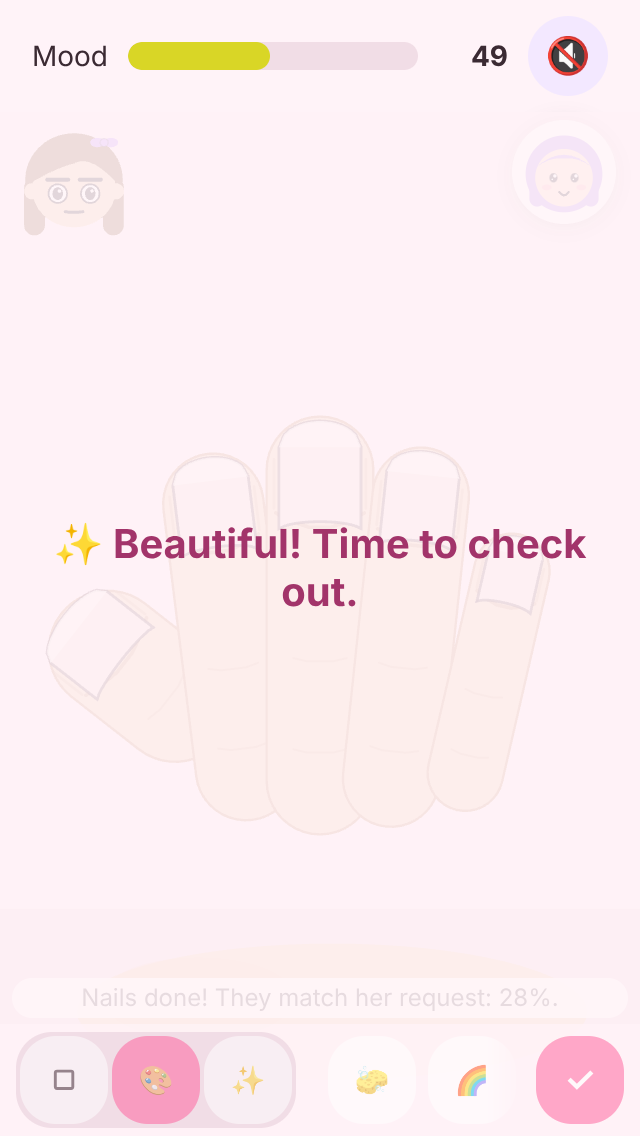
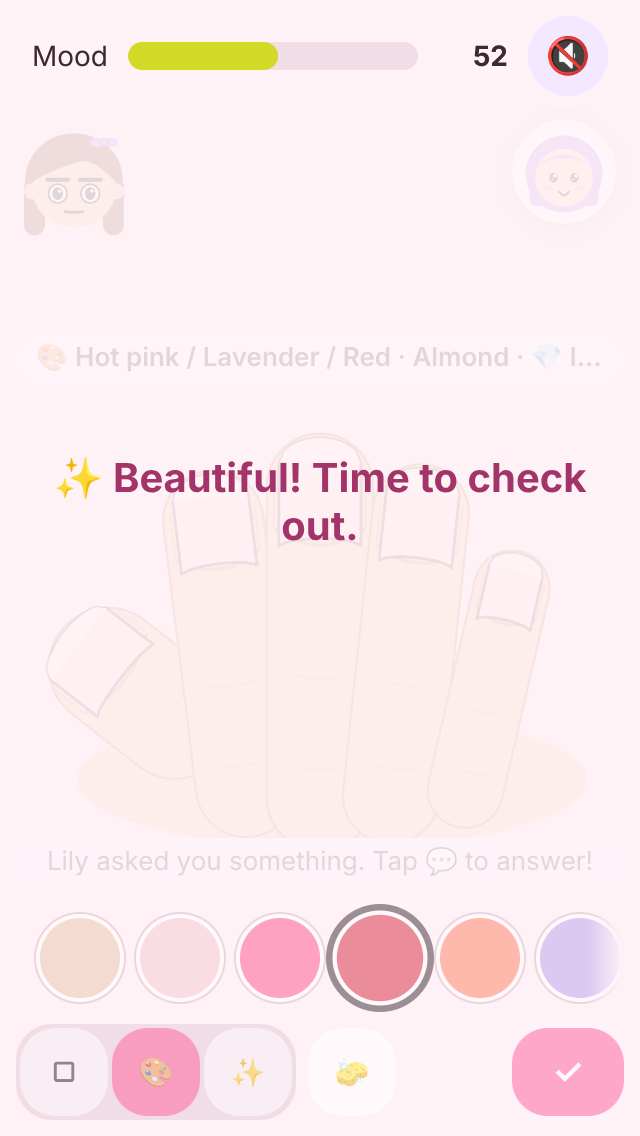
035 fixes: colours in plain sight, no overlaps, clean checkout, result-aware checkout line
Overseer review of b7332ae (from the 320 px evidence):
1. Colours were hidden. The toolbar is now two rows. Row 1 is the selected tab's options at full width: six
   colours in view at 320 px with the seventh cut off at the edge, and the chosen one has a dark ring. Row 2 is
   the tabs, Clean up (now always at hand), the hand switch and Done.
2. The "💬 Reply" chip no longer covers the hint: it sits with her bubble beside her face. The 20 s nudge takes
   the hint line's place while it shows.
3. Checkout shows only the finished nails above the chat: no tools, no toggle, no match pill on the hand.
4. Her checkout line fits the result. service-talk.json has happy / okay / unhappy bands with thresholds on nail
   match and mood, 3 lines each. A 28% match at mood 49 now gets a polite "Hmm, okay. How much is it?" kind of
   line, never "I love them!".
5. The pedicure prep starts below her face and the companion.
6. Order reminder: nothing like it existed, so there is now a chip under her bubble for the whole service
   ("🎨 colours · shapes · extras", from the request data, in the interface language). A long order is cut with
   an ellipsis on a 320 px screen.
Also found by the e2e test: "Are you almost done? I have to pick up my kids soon." did not count as a question
(it ends with a full stop), so ignoring it cost nothing. A line with a "?" anywhere now waits for an answer.

Tests: npm test → Test Files 35 passed (35), Tests 372 passed (372).
[…]

diff --git a/src/game/ui/chat-panel.ts b/src/game/ui/chat-panel.ts
@@ -8,13 +8,14 @@ import type { Expression } from '../portraits/portrait';
 import { PHASES, TurnError } from '../types';
 import type { AppointmentResult, ClientPersona, EnglishLevel, HelpLanguage, Translate } from '../types';
 import type { TranslationCache } from '../translation-cache';
-import { t } from '../i18n';
+import { getLanguage, t } from '../i18n';
 import { el } from './dom';
 import { createMaiBubble } from './mai-bubble';
 import { createPrepOverlay } from './pedicure-prep';
 import { SERVICE_TALK, checkoutLine, expectsAnswer, planServiceTalk } from '../service-talk';
 import type { PrepOverlay } from './pedicure-prep';
 import { createNailStation, nailsNote } from './nail-station-panel';
+import { NAIL_ART_CONFIG } from '../nail-art/design';
 import type { NailDesign, NailRequest, PaletteColor, StickerKind } from '../nail-art/design';
 import type { StationTools } from '../nail-art/station';
 import type { MatchResult } from '../nail-art/match';
@@ -197,6 +198,7 @@ export function createChatPanel(
           appointment.adjustMood(result.moodDelta);
           nailArt.onNote(nailsNote(design, result, nailArt.request.service));
           nailArt.onDone(design, result);
+          lastMatch = result.score;
           // Story 035: Done ends the service (or, in a redo scenario, the client asks for her redo first).
           afterDone();
         },
@@ -307,13 +309,28 @@ export function createChatPanel(
   sheetClose.setAttribute('aria-label', t('service.backToNails'));
   sheetHead.append(el('strong', '', t('service.replyTitle', { name: clientName })), sheetClose);
   sheet.append(sheetHead);
-  if (station) zone.element.append(say, chip, nudge, doneBanner);
+  // 035 fixes: her bubble and the Reply chip sit together beside her face (nothing covers the hint line), and a small
+  // order reminder stays under them the whole service.
+  const talk = el('div', 'service-talk');
+  talk.append(say, chip);
+  const order = el('p', 'service-order');
+  if (nailArt) {
+    const lang = getLanguage();
+    const r = nailArt.request;
+    const colours = r.colors.map((id) => NAIL_ART_CONFIG.palette.find((c) => c.id === id)?.name[lang] ?? id).join(' / ');
+    const shapes = r.shapes.map((shape) => t(`station.shape.${shape}`)).join(' / ');
+    const extras = [r.gradient === 'yes' ? '🌈' : '', r.gems !== 'none' ? `💎 ${t(`service.order.${r.gems}`)}` : '', r.stickers !== 'none' ? `⭐ ${t(`service.order.${r.stickers}`)}` : ''].filter(Boolean);
+    order.textContent = [`🎨 ${colours}`, shapes, ...extras].join(' · ');
+    order.setAttribute('aria-label', `${t('service.order.label')}: ${order.textContent}`);
+  }
+  if (station) zone.element.append(talk, order, nudge, doneBanner);
   let serviceMode = false;
   let serviceStarted = false;
   let replyOpen = false;
   let ending = false;
   let lastSeenClient = -1;
   let awaitingAnswer = false;
+  let lastMatch = 0;
   let ignoreTimer = 0;
   let nudgeTimer = 0;
   const talkTimers: number[] = [];
@@ -344,8 +361,13 @@ export function createChatPanel(
   const showNudge = (text: string): void => {
     nudge.textContent = text;
     nudge.classList.remove('hidden');
+    // The nudge takes the hint line's place while it shows (they never overlap).
+    root.classList.add('nudging');
     window.clearTimeout(nudgeTimer);
-    nudgeTimer = window.setTimeout(() => nudge.classList.add('hidden'), 4500);
+    nudgeTimer = window.setTimeout(() => {
+      nudge.classList.add('hidden');
+      root.classList.remove('nudging');
+    }, 4500);
   };
   /** A client line while the station is on screen: a bubble from her face, the Reply chip, and a wait for questions. */
   const clientLineInService = (index: number, text: string): void => {
@@ -403,8 +425,10 @@ export function createChatPanel(
     window.setTimeout(() => {
       doneBanner.classList.add('hidden');
       appointment.holdPhase(null);
+      // The job is finished: no tools at checkout, just the finished nails.
+      root.classList.add('service-over');
       appointment.advance('checkout');
-      appointment.clientSays(checkoutLine());
+      appointment.clientSays(checkoutLine(lastMatch, latest.mood));
       ending = false;
     }, 1600);
   }

diff --git a/src/game/service-talk.ts b/src/game/service-talk.ts
@@ -13,8 +13,14 @@ export interface ServiceTalkConfig {
   ignoreSeconds: number;
   ignoreMoodDip: number;
   lines: Record<Difficulty, string[]>;
-  checkout: string[];
+  checkout: { happy: CheckoutBand; okay: CheckoutBand; unhappy: { lines: string[] } };
   redo: string;
+}
+
+export interface CheckoutBand {
+  minMatch: number;
+  minMood: number;
+  lines: string[];
 }
 
 export function parseServiceTalk(raw: unknown): ServiceTalkConfig {
@@ -36,7 +42,18 @@ export function parseServiceTalk(raw: unknown): ServiceTalkConfig {
     ignoreSeconds: positive(c.ignoreSeconds, 'ignoreSeconds'),
     ignoreMoodDip: typeof c.ignoreMoodDip === 'number' && c.ignoreMoodDip <= 0 ? c.ignoreMoodDip : fail('"ignoreMoodDip" must be 0 or less'),
     lines,
-    checkout: texts(c.checkout, 'checkout'),
+    checkout: (() => {
+      const k = (c.checkout ?? {}) as Record<string, Partial<CheckoutBand>>;
+      const band = (name: 'happy' | 'okay'): CheckoutBand => {
+        const b = k[name];
+        if (typeof b?.minMatch !== 'number' || typeof b?.minMood !== 'number') return fail(`"checkout.${name}" needs minMatch and minMood`);
+        return { minMatch: b.minMatch, minMood: b.minMood, lines: texts(b.lines, `checkout.${name}.lines`) };
+      };
+      const happy = band('happy');
+      const okay = band('okay');
+      if (okay.minMatch > happy.minMatch || okay.minMood > happy.minMood) fail('"checkout.okay" thresholds must not be above happy');
+      return { happy, okay, unhappy: { lines: texts(k.unhappy?.lines, 'checkout.unhappy.lines') } };
+    })(),
     redo: typeof c.redo === 'string' && c.redo.trim() ? c.redo : fail('"redo" needs a line'),
   };
 }
@@ -63,7 +80,21 @@ export function planServiceTalk(difficulty: Difficulty, rand: () => number = Mat
   return plan;
 }
 
-/** Only a question waits for an answer (thanks and remarks don't). */
-export const expectsAnswer = (line: string): boolean => /\?\s*["”']?\s*$/.test(line.trim());
+/** Only a line with a question in it waits for an answer ("Are you almost done? I have to go soon." counts). */
+export const expectsAnswer = (line: string): boolean => line.includes('?');
 
-export const checkoutLine = (rand: () => number = Math.random, config: ServiceTalkConfig = SERVICE_TALK): string => config.checkout[Math.floor(rand() * config.checkout.length)] as string;
+export type CheckoutMood = 'happy' | 'okay' | 'unhappy';
+
+/** Which checkout band the result earns: nail match (0-100) and mood must both reach the band's thresholds. */
+export function checkoutBand(match: number, mood: number, config: ServiceTalkConfig = SERVICE_TALK): CheckoutMood {
+  const { happy, okay } = config.checkout;
+  if (match >= happy.minMatch && mood >= happy.minMood) return 'happy';
+  if (match >= okay.minMatch && mood >= okay.minMood) return 'okay';
+  return 'unhappy';
+}
+
+/** Her line when Done leads to checkout: it fits how the nails and the visit went. */
+export function checkoutLine(match: number, mood: number, rand: () => number = Math.random, config: ServiceTalkConfig = SERVICE_TALK): string {
+  const lines = config.checkout[checkoutBand(match, mood, config)].lines;
+  return lines[Math.floor(rand() * lines.length)] as string;
+}

diff --git a/src/tests/integration/game-flows.spec.ts b/src/tests/integration/game-flows.spec.ts
@@ -123,6 +123,20 @@ for (const lang of LANGS) {
       await expect(page.locator('.chat-input')).toBeHidden();
       await expect(page.locator('.service-say')).toHaveText('Red, please. Is that okay?');
       await expect(page.locator('.reply-chip')).toBeVisible();
+      // 035 fixes: the colours are in plain sight (5+ swatches inside the screen, the next one cut off at the edge),
+      // tappable at once, and the chosen one is marked; the order reminder shows; nothing covers the hint line.
+      const inView = await page.locator('.station-swatch').evaluateAll((nodes) => nodes.filter((n) => { const r = n.getBoundingClientRect(); return r.left >= 0 && r.right <= window.innerWidth; }).length);
+      expect(inView).toBeGreaterThanOrEqual(5);
+      expect(await page.locator('.station-row').evaluate((row) => row.scrollWidth > row.clientWidth)).toBe(true);
+      await page.locator('.station-swatch').nth(3).click();
+      await expect(page.locator('.station-swatch').nth(3)).toHaveAttribute('aria-pressed', 'true');
+      await expect(page.locator('.service-order')).toContainText('🎨');
+      const overlap = await page.evaluate(() => {
+        const box = (sel: string) => document.querySelector(sel)?.getBoundingClientRect();
+        const hit = (a?: DOMRect, b?: DOMRect) => !!a && !!b && a.width > 0 && b.width > 0 && a.left < b.right && b.left < a.right && a.top < b.bottom && b.top < a.bottom;
+        return { chipHint: hit(box('.reply-chip'), box('.station-status')), chipOrder: hit(box('.reply-chip'), box('.service-order')), sayOrder: hit(box('.service-say'), box('.service-order')) };
+      });
+      expect(overlap).toEqual({ chipHint: false, chipOrder: false, sayOrder: false });
       // Reply from the sheet; sending closes it and the service goes on (the AI can't end it).
       await page.locator('.reply-chip').click();
       await expect(page.locator('.reply-sheet .chat-input')).toBeVisible();
@@ -141,6 +155,9 @@ for (const lang of LANGS) {
       await page.locator('.station-done').click();
       await expect(page.locator('.chat-panel.service-mode')).toHaveCount(0, { timeout: 5_000 });
       await expect(page.locator('.chat-bubble.client').last()).toContainText(/owe|total|How much/i);
+      // At checkout the job is finished: no tools, no pill over the hand.
+      await expect(page.locator('.station-tools')).toBeHidden();
+      await expect(page.locator('.station-status')).toBeHidden();
     });
 
     test('the phrasebook has useful phrases by topic, even before any are earned', async ({ page }) => {

diff --git a/src/tests/service-talk.test.ts b/src/tests/service-talk.test.ts
@@ -1,6 +1,6 @@
 import { describe, expect, it } from 'vitest';
 import { createAppointment } from '../game/appointment';
-import { SERVICE_TALK, checkoutLine, expectsAnswer, parseServiceTalk, planServiceTalk } from '../game/service-talk';
+import { SERVICE_TALK, checkoutBand, checkoutLine, expectsAnswer, parseServiceTalk, planServiceTalk } from '../game/service-talk';
 import type { ClientPersona, ClientTurn, Phase } from '../game/types';
 
 /** Story 035: the service is the game; the client talks mid-service; Done leads to checkout. */
@@ -32,10 +32,28 @@ describe('mid-service talk', () => {
 
   it('only questions wait for an answer; the data is checked', () => {
     expect(expectsAnswer('Are you almost done?')).toBe(true);
+    expect(expectsAnswer('Are you almost done? I have to pick up my kids soon.')).toBe(true);
     expect(expectsAnswer('Ooh, that colour looks so pretty!')).toBe(false);
-    expect(SERVICE_TALK.checkout).toContain(checkoutLine(() => 0));
     expect(() => parseServiceTalk({ ...SERVICE_TALK, ignoreMoodDip: 2 })).toThrow(/ignoreMoodDip/);
     expect(() => parseServiceTalk({ ...SERVICE_TALK, count: { min: 3, max: 1 } })).toThrow(/count/);
+  });
+});
+
+describe('her checkout line fits the result', () => {
+  it('needs both a good match and a good mood to be happy; a poor result is polite but not delighted', () => {
+    const { happy, okay } = SERVICE_TALK.checkout;
+    expect(checkoutBand(happy.minMatch, happy.minMood)).toBe('happy');
+    expect(checkoutBand(happy.minMatch - 1, 100)).toBe('okay');
+    expect(checkoutBand(100, happy.minMood - 1)).toBe('okay');
+    expect(checkoutBand(okay.minMatch - 1, 100)).toBe('unhappy');
+    expect(checkoutBand(100, okay.minMood - 1)).toBe('unhappy');
+    // The overseer's case: 28% match, mood 49 must not get "I love them!".
+    expect(checkoutBand(28, 49)).toBe('unhappy');
+    expect(SERVICE_TALK.checkout.unhappy.lines).toContain(checkoutLine(28, 49, () => 0.5));
+    expect(SERVICE_TALK.checkout.unhappy.lines.join(' ')).not.toMatch(/love|great|perfect/i);
+    expect(SERVICE_TALK.checkout.happy.lines).toContain(checkoutLine(90, 80, () => 0));
+    for (const band of ['happy', 'okay', 'unhappy'] as const) expect(SERVICE_TALK.checkout[band].lines).toHaveLength(3);
+    expect(() => parseServiceTalk({ ...SERVICE_TALK, checkout: { ...SERVICE_TALK.checkout, okay: { ...okay, minMatch: 99 } } })).toThrow(/okay/);
   });
 });
 

diff --git a/src/game/ui/chat-panel.css b/src/game/ui/chat-panel.css
@@ -99,3 +99,18 @@ html[data-motion='reduce'] .reply-chip.pulse { animation: none; }
 .reply-sheet .chat-log { flex: 1 1 auto; }
 /* During the pedicure prep (story 026) the prep's own buttons own the screen; her bubble and the chip come back after. */
 .chat-panel.prepping .reply-chip, .chat-panel.prepping .service-say, .chat-panel.prepping .station-status { display: none; }
+
+/* 035 fixes: her bubble + the Reply chip in one column beside her face; the order reminder under them; no overlaps. */
+.service-talk { position: absolute; left: 86px; right: 78px; top: 6px; z-index: 4; display: flex; flex-direction: column; align-items: flex-start; gap: 4px; pointer-events: none; }
+.service-talk .service-say { position: static; width: 100%; box-sizing: border-box; font-size: 14px; padding: 6px 10px; display: -webkit-box; -webkit-line-clamp: 2; -webkit-box-orient: vertical; overflow: hidden; pointer-events: auto; }
+.service-talk .reply-chip { position: static; min-height: 40px; padding: 4px 14px; font-size: 15px; pointer-events: auto; }
+.service-talk .service-say.hidden, .service-talk .reply-chip.hidden { display: none; }
+.service-order { display: none; }
+.chat-panel.service-mode .service-order { display: block; position: absolute; left: 8px; right: 8px; top: 112px; z-index: 3; margin: 0; padding: 2px 10px; border-radius: 10px; background: rgba(255, 255, 255, 0.85); color: #3b2a33; font: 600 13px/1.5 system-ui, sans-serif; white-space: nowrap; overflow: hidden; text-overflow: ellipsis; pointer-events: none; }
+.chat-panel.prepping .service-order { display: none; }
+.service-nudge { bottom: 3px; left: 6px; right: 6px; padding: 4px 10px; font-size: 13px; }
+.chat-panel.nudging .station-status { display: none; }
+/* The pedicure prep starts below her face, her bubble and the companion. */
+.chat-panel.service-mode .pedi-prep { top: 112px; }
+/* Checkout: the job is finished. No tools, no pill on the hand: just the finished nails. */
+.chat-panel.service-over .station-tools, .chat-panel.service-over .station-toggle, .chat-panel.service-over .station-status { display: none; }

diff --git a/src/game/ui/nail-station-panel.ts b/src/game/ui/nail-station-panel.ts
@@ -212,12 +212,16 @@ export function createNailStation(options: NailStationOptions): NailStation {
     handButton.setAttribute('aria-label', sideLabel(hand));
     say(sideLabel(hand));
   }, sideLabel(0));
-  toolbar.append(tabs, optionsRow, ...(nails > NAIL_ART_CONFIG.hand.fingers.length ? [handButton] : []), doneButton);
+  // 035 fixes: two rows. Row 1: the selected tab's options at full width (the colours are in plain sight). Row 2: the
+  // tabs, Clean up (always at hand), the hand switch and Done.
+  const controls = el('div', 'station-controls');
+  controls.append(tabs, toolButtons.cleanup, ...(nails > NAIL_ART_CONFIG.hand.fingers.length ? [handButton] : []), doneButton);
+  toolbar.append(optionsRow, controls);
 
   function selectTab(next: Tab): void {
     tab = next;
     if (tab === 'shape') optionsRow.replaceChildren(...shapeButtons, resetButton);
-    else if (tab === 'colour') optionsRow.replaceChildren(toolButtons.cleanup, toolButtons.gradient, ...swatches);
+    else if (tab === 'colour') optionsRow.replaceChildren(...swatches, toolButtons.gradient);
     else optionsRow.replaceChildren(toolButtons.gem, toolButtons.sticker);
     if (tab === 'colour' && tool !== 'gradient' && tool !== 'cleanup') tool = 'polish';
     if (tab === 'art' && tool !== 'gem' && tool !== 'sticker') tool = 'gem';
@@ -287,7 +291,7 @@ export function createNailStation(options: NailStationOptions): NailStation {
     const tall = r.height >= 300;
     const left = tall ? 8 : side === 'left' ? 70 : 20;
     const right = tall ? 8 : side === 'right' ? 70 : 8;
-    view.layout(r.left, r.top, r.width, r.height, left, right, tall ? 84 : 0);
+    view.layout(r.left, r.top, r.width, r.height, left, right, tall ? 138 : 0);
     view.setDesign(design);
     placeHint(r.width, r.height);
   };

diff --git a/src/game/ui/nail-station.css b/src/game/ui/nail-station.css
@@ -31,3 +31,12 @@
   .station-tab { width: 36px; padding: 0; }
 }
 .station-hand { flex: none; width: 40px; min-height: 40px; padding: 0; font-size: 15px; background: #f3e8ff; color: #5b2d91; }
+
+/* 035 fixes: the toolbar is two rows: options (full width) over tabs / Clean up / hand / Done. */
+.station-tools { flex-direction: column; align-items: stretch; gap: 6px; padding: 6px 8px 8px; }
+.station-controls { display: flex; align-items: center; gap: 6px; }
+.station-controls .station-done { margin-left: auto; width: 56px; min-height: 44px; }
+.station-controls .station-tab { width: 40px; min-height: 40px; }
+.station-row { flex: none; padding: 3px 10px; min-height: 48px; align-items: center; }
+.station-row .station-swatch { width: 40px; min-width: 40px; min-height: 40px; border-radius: 50%; }
+.station-row .station-swatch[aria-pressed='true'] { border-color: #fff; box-shadow: 0 0 0 3px #3b2a33; transform: scale(1.08); }

diff --git a/src/game/nail-art/station.ts b/src/game/nail-art/station.ts
@@ -242,7 +242,7 @@ export function createStationView(initial: NailDesign = emptyDesign(), tools: St
       const free = Math.max(80, w - reserveLeft - reserveRight);
       const top = Math.max(TOP_MARGIN, topBand);
       // With a top band (the full-screen service) the hand also keeps room under it for the palm and the hint.
-      const below = topBand > 0 ? Math.min(90, h * 0.16) : 0;
+      const below = topBand > 0 ? 44 : 0;
       scale = Math.min(free / hand.box.w, (h - top - below) / hand.box.h);
       offsetX = reserveLeft + (free - hand.box.w * scale) / 2;
       offsetY = topBand > 0 ? top + Math.max(0, (h - top - below - hand.box.h * scale) / 2) : TOP_MARGIN;

diff --git a/production/epics/salon-besties/story-035-service-full-screen.md b/production/epics/salon-besties/story-035-service-full-screen.md
@@ -53,3 +53,19 @@ service); the other flows go through Done. Screens: `production/qa/evidence/stor
   to answer, −3 mood). The mid-service lines are fixed data lines (not AI); her replies to what you say are AI.
 - **OWNER:** the lower third of the service screen is empty at 320 × 568 (the hand keeps its proportions); say if you
   want the tools or a bigger hand there.
+
+## 035 fixes (overseer review of b7332ae, 2026-11-13)
+
+1. Toolbar in two rows: the selected tab's options at full width (6 colours in view at 320 px, the 7th cut off; the
+   chosen one has a dark ring), then tabs, Clean up (always at hand), the hand switch and Done. e2e: 5+ swatches inside
+   the screen, the row scrolls, a swatch is tappable right after Service starts.
+2. The Reply chip sits with her bubble beside her face; the nudge takes the hint line's place while it shows. e2e
+   checks that chip, bubble, order reminder and hint don't overlap.
+3. Checkout: no tools, no toggle, no pill; just the finished nails above the chat.
+4. Her checkout line fits the result: `checkout` in `service-talk.json` has happy / okay / unhappy bands (thresholds on
+   nail match and mood, 3 lines each; unhappy stays polite). Unit test, incl. the 28% / mood 49 case.
+5. The pedicure prep starts below her face and the companion.
+6. Order reminder (new; nothing like it existed): "🎨 colours · shapes · extras" under her bubble for the whole
+   service, from the request data, in the interface language.
+Also: a line counts as a question if it has a "?" anywhere (found by the e2e test: "Are you almost done? I have to
+pick up my kids soon." was not waiting for an answer).
